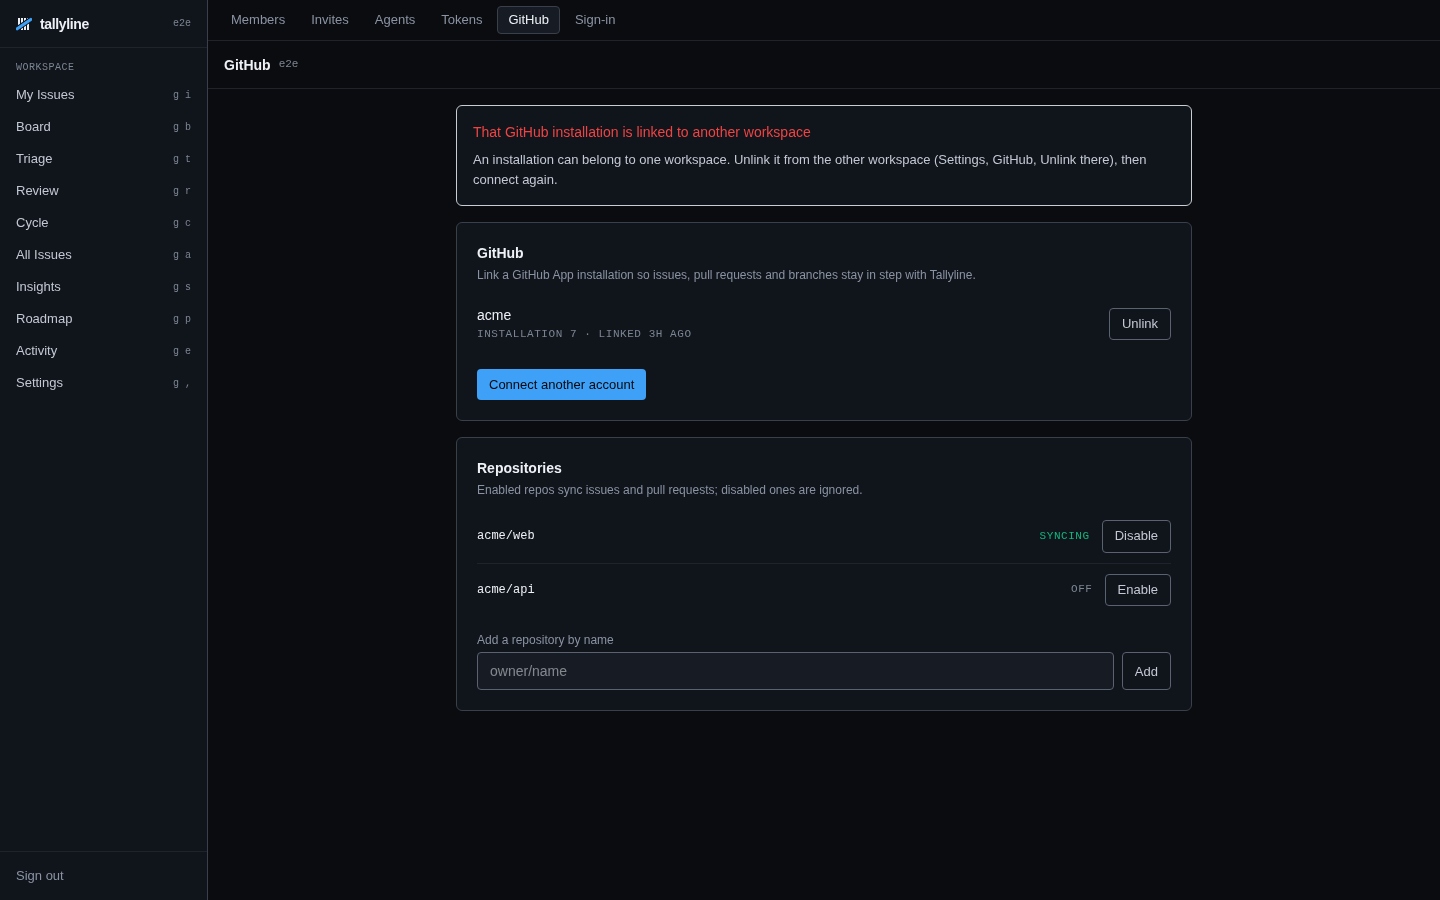
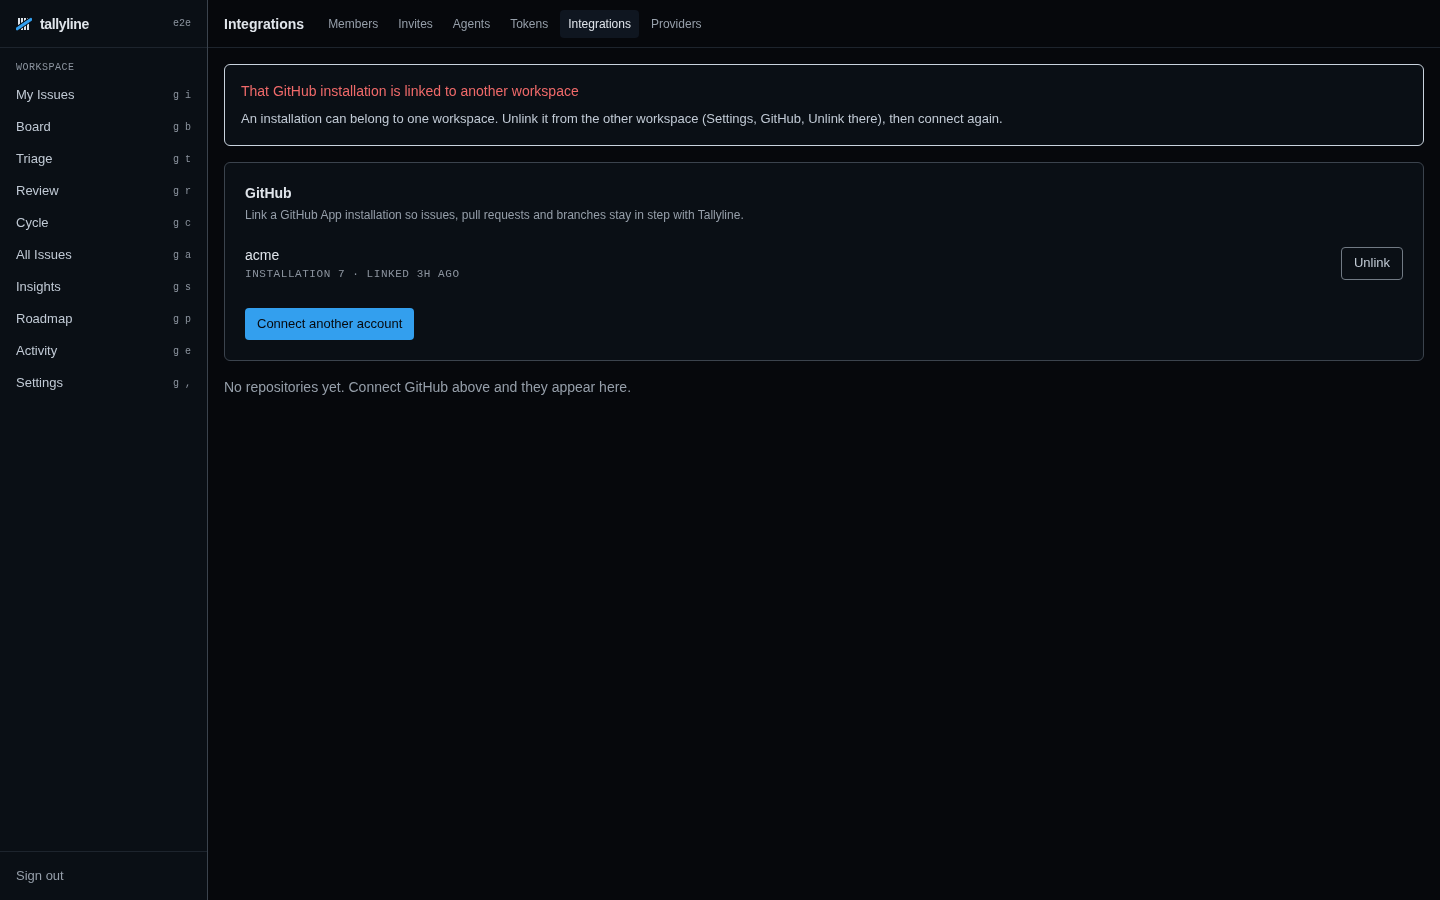
fix: e2e URLs after folding into Integrations, copy, refreshed screenshots
Claude-Session: https://claude.ai/code/session_01SMRetiPq6FWvDhxV55ca7W

diff --git a/tools/e2e/tests/github-connect.spec.ts b/tools/e2e/tests/github-connect.spec.ts
@@ -48,12 +48,12 @@ test("not configured: shows the operator steps and a manifest form to github.com
   page,
 }) => {
   const csp = watchCsp(page);
-  await page.route("**/api/settings/integrations/installations", (r) =>
+  await page.route("**/api/settings/github/installations", (r) =>
     r.fulfill({
       json: { configured: { app: false, slug: false }, installations: [] },
     }),
   );
-  await page.route("**/api/settings/integrations/manifest", (r) =>
+  await page.route("**/api/settings/github/manifest", (r) =>
     r.fulfill({ json: { name: "tallyline", url: "http://x.test", redirect_url: "http://x.test/cb" } }),
   );
   const res = await page.goto("/settings/integrations");
@@ -85,7 +85,7 @@ test("other settings pages keep form-action 'self'", async ({ page }) => {
 });
 
 test("API 503 from install-url falls back to the operator steps", async ({ page }) => {
-  await page.route("**/api/settings/integrations/install-url", (r) =>
+  await page.route("**/api/settings/github/install-url", (r) =>
     r.fulfill({ status: 503, json: { error: { code: "GITHUB_NOT_CONFIGURED", message: "GITHUB_APP_SLUG not set" } } }),
   );
   await page.goto("/settings/integrations");
@@ -121,7 +121,7 @@ test("connect → github.com install → callback binds, repos backfill, unlink"
   const before = await api.get(`/v1/workspaces/${WS}/github/installations`);
   expect((await before.json()).installations).toEqual([]);
   await page.getByRole("button", { name: "Link installation" }).click();
-  await expect(page).toHaveURL(/\/settings\/github\?github=connected/);
+  await expect(page).toHaveURL(/\/settings\/integrations\?github=connected/);
   await expect(page.getByText("GitHub installation linked")).toBeVisible();
   const installs = page.getByRole("list", { name: "Linked installations" });
   await expect(installs.getByText("e2e-org")).toBeVisible();
@@ -204,12 +204,12 @@ test("org-member install request and malformed callback", async ({ page }) => {
 test("setup POST refuses cross-site requests (CSRF)", async ({ page, request }) => {
   await page.goto("/settings/integrations");
   const base = new URL(page.url()).origin;
-  const evil = await request.post(`${base}/api/settings/integrations/setup`, {
+  const evil = await request.post(`${base}/api/settings/github/setup`, {
     headers: { "content-type": "application/json", origin: "https://evil.example" },
     data: { installationId: 501 },
   });
   expect(evil.status()).toBe(403);
-  const noOrigin = await request.post(`${base}/api/settings/integrations/setup`, {
+  const noOrigin = await request.post(`${base}/api/settings/github/setup`, {
     headers: { "content-type": "text/plain" },
     data: JSON.stringify({ installationId: 501 }),
   });

diff --git a/tools/e2e/tests/a11y.spec.ts b/tools/e2e/tests/a11y.spec.ts
@@ -33,10 +33,10 @@ const STATES: { name: string; run: (page: Page) => Promise<void> }[] = [
   {
     name: "github not configured",
     run: async (page) => {
-      await page.route("**/api/settings/integrations/installations", (r) =>
+      await page.route("**/api/settings/github/installations", (r) =>
         r.fulfill({ json: { configured: { app: false, slug: false }, installations: [] } }),
       );
-      await page.route("**/api/settings/integrations/manifest", (r) =>
+      await page.route("**/api/settings/github/manifest", (r) =>
         r.fulfill({ json: { name: "tallyline", url: "http://x.test" } }),
       );
       await page.goto("/settings/integrations");
@@ -47,7 +47,7 @@ const STATES: { name: string; run: (page: Page) => Promise<void> }[] = [
   {
     name: "github linked + 409 notice + unlink toast",
     run: async (page) => {
-      await page.route("**/api/settings/integrations/installations", (r) =>
+      await page.route("**/api/settings/github/installations", (r) =>
         r.fulfill({
           json: {
             configured: { app: true, slug: true },

diff --git a/apps/web/components/settings/github-connect.tsx b/apps/web/components/settings/github-connect.tsx
@@ -41,7 +41,7 @@ export function callbackErrorCopy(code: number): { title: string; body: string }
     case 409:
       return {
         title: "That GitHub installation is linked to another workspace",
-        body: "An installation can belong to one workspace. Unlink it from the other workspace (Settings, GitHub, Unlink there), then connect again.",
+        body: "An installation can belong to one workspace. Unlink it from the other workspace (Settings, Integrations, Unlink there), then connect again.",
       };
     case 503:
       return {

diff --git a/docs/github-sync.md b/docs/github-sync.md
@@ -124,9 +124,9 @@ GH PATCH → GH `closed` echo → dropped as bot-sent.
 - Label *removals* never propagate outbound — tallyline has no
   remove-label write path, and the outbound mirror only ever adds.
 
-## Web: Settings > GitHub
+## Web: Settings > Integrations
 
-`/settings/github` shows the operator steps while the API has no App, then
+`/settings/integrations` shows the operator steps while the API has no App, then
 Connect GitHub, linked installations (Unlink, undoable for 8s) and per-repo
 enable/disable. Set the App's **Setup URL** to
 `https://<web host>/integrations/github/callback` with "Redirect on update":
